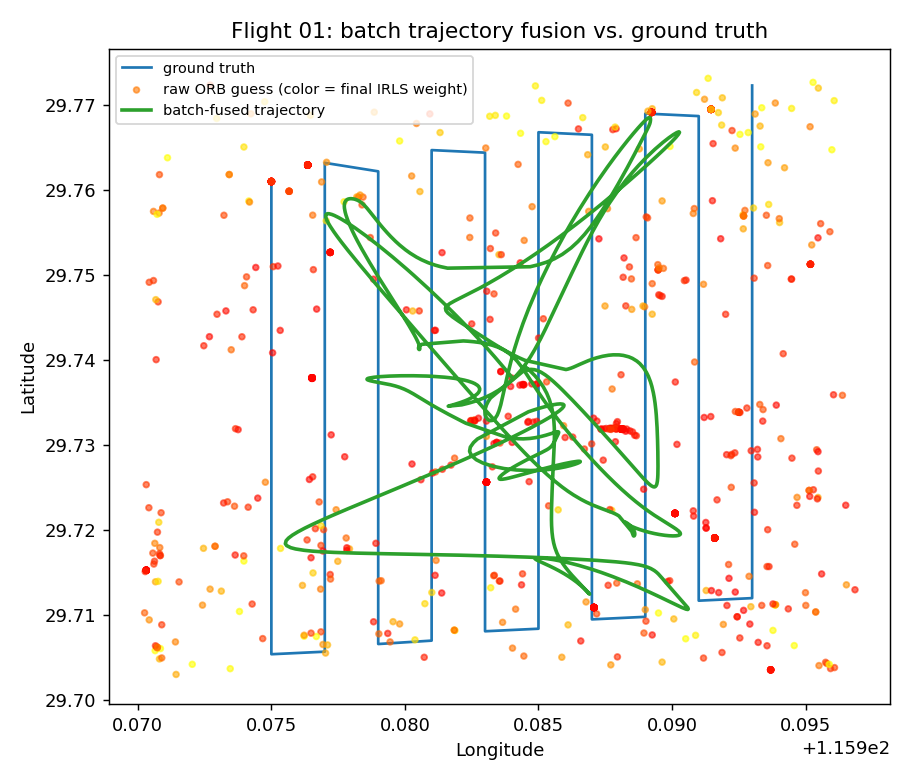
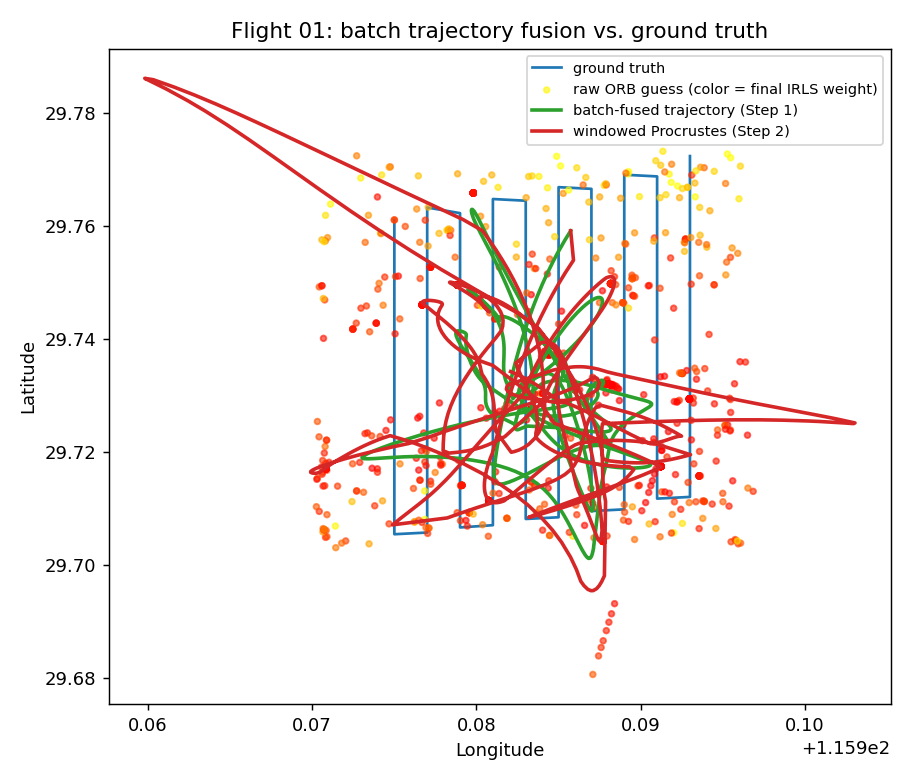
STRATEGY.md Phase 4 Step 2: sliding-window weighted Procrustes refinement (negative result)
Adds windowed_procrustes_refine() to batch_trajectory_fusion.py: bounded,
IRLS-weighted rigid (rotation+translation) alignment per sliding window over
Step 1's fitted trajectory. Tested against Step 1 itself on all 5 dev+
validation flights -- underperforms on all 5, worst on flight 10 where it
falls below the raw/Kalman baselines too. Root cause: the added rotational
freedom lets windows dominated by a wrong-attractor cluster rotate a decent
trajectory toward the wrong cluster, with no independent signal (real
odometry) to arbitrate genuine platform turning from attractor noise -- a
real, informative negative result, not a bug. See CLAUDE.md.

diff --git a/scripts/batch_trajectory_fusion.py b/scripts/batch_trajectory_fusion.py
@@ -37,6 +37,24 @@ IPositionEstimator, no live pipeline integration. Mirrors how this project alrea
 prototyped the same-domain experiment and the clustering-assumption check as
 standalone diagnostics before (if ever) wiring them into the live pipeline.
 
+STEP 2 (added this pass): STRATEGY.md's second batch-estimator sub-task, "sliding-window
+refinement via bounded weighted Procrustes updates". Step 1's per-axis LOESS fit smooths
+x(t) and y(t) completely independently, so nothing in it can express or correct a
+*rotational* misalignment -- only independent per-axis translational bias. This adds
+`windowed_procrustes_refine()`: within overlapping time windows (WINDOW_S, 50% stride) over
+Step 1's already-fitted curve, solve a weighted RIGID (rotation + translation, no scale --
+both point sets are already in real-world metres, and STRATEGY.md's resolution-gap
+experiment already ruled out a scale/resolution effect) alignment via closed-form weighted
+Kabsch/SVD between Step 1's fitted points and that window's raw matches, wrapped in a small
+IRLS loop (reusing tukey_biweight) so within-window outliers get down-weighted the same way
+Step 1 already does. The resulting per-window correction is BOUNDED before being applied:
+rotation clipped to ROTATION_CAP_DEG (untuned default, same honesty convention as Step 1's
+Tukey constant), translation clipped to a cap computed per-flight from that flight's own
+real GT track speed (offline-diagnostic-only calibration -- a fielded system would use a
+known platform speed limit instead of per-flight ground truth). Overlapping windows are
+blended via a triangular taper. See .claude/plans/iterative-launching-parrot.md for the
+full design rationale and CLAUDE.md for the measured result.
+
 Usage:
     source ../CV_IP/cv_env/bin/activate
     python3 scripts/batch_trajectory_fusion.py
@@ -69,6 +87,17 @@ BANDWIDTH_S = 40.0              # local-regression time bandwidth, tuned on flig
 N_ITERS = 15
 TUKEY_C = 4.685                 # standard Tukey biweight tuning constant
 MAX_FRAME_GAP = 15              # matches evaluate_ground_truth.py's default
+
+# Step 2 (windowed Procrustes refinement) hyperparameters -- tuned once on flight 01
+# only, then held fixed across validation flights, same discipline as Step 1's own
+# BANDWIDTH_S/TUKEY_C above.
+WINDOW_S = 150.0                 # ~3.75x Step 1's bandwidth -- enough points/window to
+                                  # fit a 2D rigid transform (rotation+translation) robustly
+WINDOW_IRLS_ITERS = 3
+MIN_WINDOW_POINTS = 6            # skip a window with too few points to fit reliably
+ROTATION_CAP_DEG = 20.0          # untuned default, same honesty convention as TUKEY_C
+TRANSLATION_CAP_PERCENTILE = 95.0
+TRANSLATION_CAP_SAFETY_FACTOR = 3.0
 
 
 def project_to_local_xy(lats, lngs, lat0, lng0):
@@ -119,6 +148,108 @@ def batch_fuse(t, x, y, bandwidth_s=BANDWIDTH_S, n_iters=N_ITERS):
     return fx, fy, weights, resid
 
 
+def weighted_rigid_align(P, Q, weights):
+    """Closed-form weighted rigid (rotation + translation, no scale) alignment mapping
+    P -> Q (weighted Kabsch/Umeyama via SVD). Returns (theta_rad, tx, ty, R) such that
+    Q ~= R @ P + [tx, ty] in the weighted-least-squares sense."""
+    w = np.asarray(weights, dtype=float)
+    wsum = w.sum()
+    w = w / wsum if wsum > 1e-9 else np.full_like(w, 1.0 / len(w))
+    p_bar = (w[:, None] * P).sum(axis=0)
+    q_bar = (w[:, None] * Q).sum(axis=0)
+    Pc, Qc = P - p_bar, Q - q_bar
+    H = Pc.T @ (w[:, None] * Qc)
+    U, _, Vt = np.linalg.svd(H)
+    V = Vt.T
+    d = 1.0 if np.linalg.det(V @ U.T) >= 0 else -1.0
+    R = V @ np.diag([1.0, d]) @ U.T
+    t = q_bar - R @ p_bar
+    theta = np.arctan2(R[1, 0], R[0, 0])
+    return theta, t[0], t[1], R
+
+
+def compute_translation_cap(t, gx, gy, window_s,
+                             percentile=TRANSLATION_CAP_PERCENTILE,
+                             safety_factor=TRANSLATION_CAP_SAFETY_FACTOR):
+    """Per-flight Step-2 translation bound, grounded in that flight's own real GT
+    track speed rather than a guessed constant (matches this project's established
+    practice, e.g. MIN_VALID_KEYPOINTS/MIN_CROP_CONTRAST) -- offline-diagnostic-only
+    calibration; a fielded system would use a known platform speed limit instead."""
+    order = np.argsort(t)
+    ts, gxs, gys = t[order], gx[order], gy[order]
+    dt = np.diff(ts)
+    valid = dt > 0
+    if not np.any(valid):
+        return window_s * 50.0  # fallback, shouldn't happen with real dense GT
+    dist = np.hypot(np.diff(gxs), np.diff(gys))[valid]
+    speeds = dist / dt[valid]
+    cap_speed = safety_factor * np.percentile(speeds, percentile)
+    return cap_speed * window_s
+
+
+def windowed_procrustes_refine(t, x, y, fx, fy, translation_cap_m,
+                                window_s=WINDOW_S, rotation_cap_deg=ROTATION_CAP_DEG,
+                                n_iters=WINDOW_IRLS_ITERS, min_points=MIN_WINDOW_POINTS):
+    """Phase 4 Step 2: sliding-window bounded weighted Procrustes refinement of Step
+    1's fitted trajectory (fx, fy) against the raw matches (x, y). See the module
+    docstring and .claude/plans/iterative-launching-parrot.md for design rationale.
+
+    Returns (rx, ry, blended_weight) -- refined trajectory plus a per-frame blended
+    robustness weight (for the mechanism-check report), falling back to Step 1's own
+    (fx, fy) at any frame no window covers."""
+    t_min, t_max = t.min(), t.max()
+    stride = window_s / 2.0
+    centers = np.arange(t_min + stride, t_max - stride + stride, stride)
+    if len(centers) == 0:
+        centers = np.array([(t_min + t_max) / 2.0])
+
+    rotation_cap = np.deg2rad(rotation_cap_deg)
+    accum = np.zeros((len(t), 2))
+    accum_w = np.zeros(len(t))
+    accum_robust_w = np.zeros(len(t))
+
+    for c in centers:
+        idx = np.where(np.abs(t - c) <= window_s / 2.0)[0]
+        if len(idx) < min_points:
+            continue
+        P = np.stack([fx[idx], fy[idx]], axis=1)
+        Q = np.stack([x[idx], y[idx]], axis=1)
+        w = np.ones(len(idx))
+        theta = tx = ty = 0.0
+        R = np.eye(2)
+        for _ in range(n_iters):
+            theta, tx, ty, R = weighted_rigid_align(P, Q, w)
+            resid = np.linalg.norm((R @ P.T).T + np.array([tx, ty]) - Q, axis=1)
+            new_w, _ = tukey_biweight(resid)
+            if new_w.sum() < 1e-9:
+                # Reweighting collapsed to zero (degenerate window) -- keep this
+                # iteration's transform rather than feeding an all-zero/NaN weight
+                # vector into the next solve.
+                break
+            w = new_w
+
+        theta_b = np.clip(theta, -rotation_cap, rotation_cap)
+        t_mag = np.hypot(tx, ty)
+        if t_mag > translation_cap_m:
+            scale = translation_cap_m / t_mag
+            tx, ty = tx * scale, ty * scale
+        Rb = np.array([[np.cos(theta_b), -np.sin(theta_b)],
+                        [np.sin(theta_b), np.cos(theta_b)]])
+        refined = (Rb @ P.T).T + np.array([tx, ty])
+
+        taper = np.clip(1.0 - np.abs(t[idx] - c) / (window_s / 2.0), 0.0, 1.0)
+        accum[idx] += refined * taper[:, None]
+        accum_w[idx] += taper
+        accum_robust_w[idx] += taper * w
+
+    covered = accum_w > 1e-9
+    rx, ry, blended_w = fx.copy(), fy.copy(), np.zeros(len(t))
+    rx[covered] = accum[covered, 0] / accum_w[covered]
+    ry[covered] = accum[covered, 1] / accum_w[covered]
+    blended_w[covered] = accum_robust_w[covered] / accum_w[covered]
+    return rx, ry, blended_w
+
+
 def load_raw_track(gt_path, telemetry_path, max_gap=MAX_FRAME_GAP):
     gt = load_ground_truth(gt_path)
     tel = load_telemetry(telemetry_path)
@@ -146,8 +277,13 @@ def run_flight(flight):
     fx, fy, weights, resid_to_fit = batch_fuse(t, x, y)
     fused_lat, fused_lng = unproject_from_local_xy(fx, fy, lat0, lng0)
 
+    translation_cap_m = compute_translation_cap(t, gx, gy, WINDOW_S)
+    rx, ry, window_weights = windowed_procrustes_refine(t, x, y, fx, fy, translation_cap_m)
+    refined_lat, refined_lng = unproject_from_local_xy(rx, ry, lat0, lng0)
+
     raw_err = np.hypot(x - gx, y - gy)
     fused_err = np.hypot(fx - gx, fy - gy)
+    refined_err = np.hypot(rx - gx, ry - gy)
 
     existing = compute_stats(str(gt_path), str(tel_path), max_frame_gap=MAX_FRAME_GAP)
 
@@ -156,6 +292,7 @@ def run_flight(flight):
 
     raw_stats = summarize(raw_err)
     fused_stats = summarize(fused_err)
+    refined_stats = summarize(refined_err)
 
     print(f"\n{'=' * 90}\nFlight {flight}  (n={len(t)})\n{'=' * 90}")
     print(f"{'':>22} {'mean':>8} {'median':>8} {'max':>8} {'A@10m':>7} {'A@20m':>7}")
@@ -170,6 +307,7 @@ def run_flight(flight):
         row("Raw (evaluate_gt.py)", existing["raw"])
         row("Kalman-filtered", existing["filt"])
     row("Batch-fused (IRLS)", fused_stats)
+    row("Windowed Procrustes", refined_stats)
 
     # Sanity-check the mechanism: do high-final-weight frames actually have lower
     # TRUE error (ground truth used only for this check, never fed into the fit)?
@@ -177,9 +315,16 @@ def run_flight(flight):
     n = len(weights)
     low_third = order[: n // 3]
     high_third = order[-(n // 3):]
-    print(f"\nMechanism check -- true raw error by final IRLS weight tercile:")
+    print(f"\nMechanism check (Step 1) -- true raw error by final IRLS weight tercile:")
     print(f"  low-weight third  (n={len(low_third)}):  mean raw error = {raw_err[low_third].mean():.1f}m")
     print(f"  high-weight third (n={len(high_third)}): mean raw error = {raw_err[high_third].mean():.1f}m")
+
+    order2 = np.argsort(window_weights)
+    low2, high2 = order2[: n // 3], order2[-(n // 3):]
+    print(f"Mechanism check (Step 2, translation cap={translation_cap_m:.0f}m) -- "
+          f"true raw error by blended window-weight tercile:")
+    print(f"  low-weight third  (n={len(low2)}):  mean raw error = {raw_err[low2].mean():.1f}m")
+    print(f"  high-weight third (n={len(high2)}): mean raw error = {raw_err[high2].mean():.1f}m")
 
     OUT_DIR.mkdir(parents=True, exist_ok=True)
     fig, ax = plt.subplots(figsize=(7, 6))
@@ -187,7 +332,9 @@ def run_flight(flight):
     ax.scatter(raw_lng, raw_lat, c=weights, cmap="autumn_r", s=10, alpha=0.6,
                label="raw ORB guess (color = final IRLS weight)", zorder=3)
     ax.plot(fused_lng, fused_lat, "-", color="#2ca02c", linewidth=2.0,
-            label="batch-fused trajectory", zorder=4)
+            label="batch-fused trajectory (Step 1)", zorder=4)
+    ax.plot(refined_lng, refined_lat, "-", color="#d62728", linewidth=2.0,
+            label="windowed Procrustes (Step 2)", zorder=5)
     ax.set_xlabel("Longitude"); ax.set_ylabel("Latitude")
     ax.set_title(f"Flight {flight}: batch trajectory fusion vs. ground truth")
     ax.legend(loc="best", fontsize=8)
@@ -195,7 +342,7 @@ def run_flight(flight):
     fig.savefig(OUT_DIR / f"traj_flight{flight}.png", dpi=130)
     plt.close(fig)
 
-    return raw_stats, fused_stats, existing
+    return raw_stats, fused_stats, refined_stats, existing
 
 
 def main():
